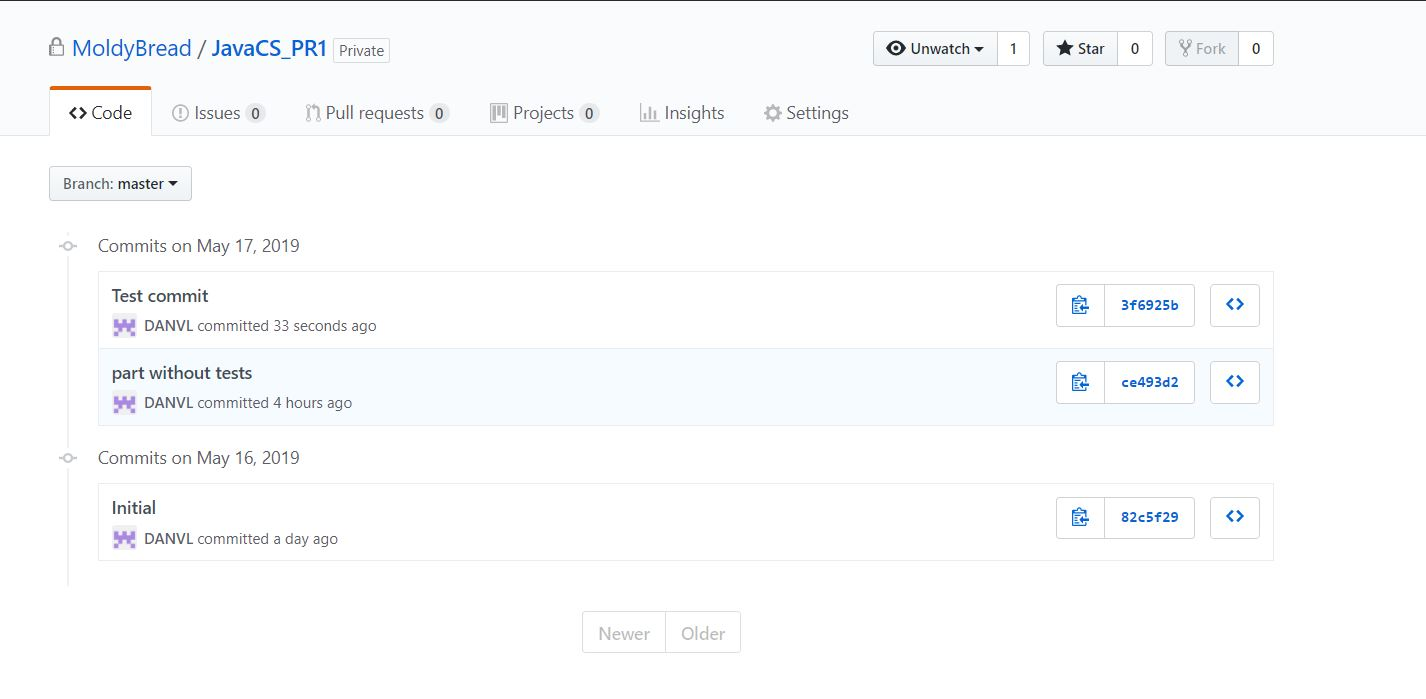
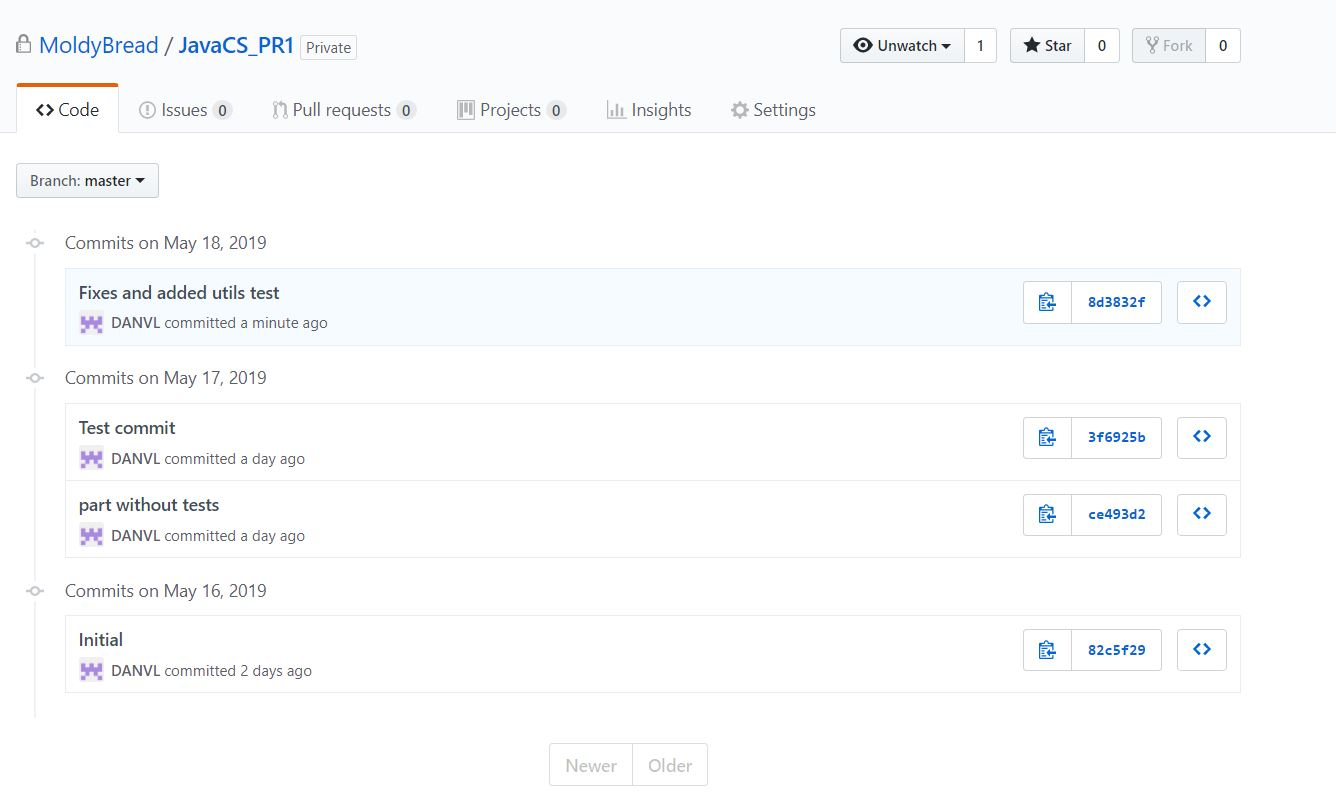
CsPr2

diff --git a/src/main/java/com/company/util/Util.java b/src/main/java/com/company/util/Util.java
@@ -1,12 +1,24 @@
 package com.company.util;
 
 import javax.crypto.Cipher;
+import javax.crypto.NoSuchPaddingException;
 import javax.crypto.spec.SecretKeySpec;
 import java.security.Key;
+import java.security.NoSuchAlgorithmException;
 
 public class Util {
-    private static Key aesKey = new SecretKeySpec("Bar12345Bar12345".getBytes(), "AES");
-    private static Cipher cipher;
+    public static Key aesKey = new SecretKeySpec("Bar12345Bar12345".getBytes(), "AES");
+    public static Cipher cipher;
+
+    static {
+        try {
+            cipher = Cipher.getInstance("AES");
+        } catch (NoSuchAlgorithmException e) {
+            e.printStackTrace();
+        } catch (NoSuchPaddingException e) {
+            e.printStackTrace();
+        }
+    }
 
     public static int crc(byte[] input) {
         int[] table = {
@@ -51,17 +63,6 @@ public class Util {
         }
 
         return crc;
-    }
-
-    public static byte[] encrypt(String message) throws Exception {
-        cipher = Cipher.getInstance("AES");
-        cipher.init(Cipher.ENCRYPT_MODE, aesKey);
-        return cipher.doFinal(message.getBytes());
-    }
-
-    public static String decrypt(byte[] input) throws Exception {
-        cipher.init(Cipher.DECRYPT_MODE, aesKey);
-        return new String(cipher.doFinal(input));
     }
 
 

diff --git a/src/main/java/com/company/entities/Message.java b/src/main/java/com/company/entities/Message.java
@@ -1,6 +1,7 @@
 package com.company.entities;
 
-import com.company.pacakge.PackageManager;
+import com.company.sevices.Encryptor;
+import com.company.sevices.implementation.MessageChecker;
 import com.company.util.Util;
 
 import java.util.Random;
@@ -23,19 +24,18 @@ public class Message {
         currentNumber = ++number;
     }
 
-    public boolean send() throws Exception {
-        byte[] encrypted = Util.encrypt(message);
-        data = new byte[16 + encrypted.length];
+    public byte[] getData() throws Exception {
+        byte[] encrypted =  new Encryptor().encrypt(message);
+        data = new byte[18 + encrypted.length];
         data[0] = 0xD;
         data[1] = 0x1;
         fillPart(currentNumber, 2, 8);
-        fillPart(16 + data.length, 9, 13);
+        fillPart(encrypted.length, 9, 13);
         fillPart(Util.crc(Util.subArray(data, 0, 13)), 14, 15);
         System.arraycopy(encrypted, 0, data, 16, encrypted.length);
         fillPart(Util.crc(encrypted), encrypted.length + 16, data.length - 1);
 
-
-        return new PackageManager(data).checkPackage();
+        return data;
     }
 
 

diff --git a/src/test/java/com/company/entities/MessageTest.java b/src/test/java/com/company/entities/MessageTest.java
@@ -6,9 +6,16 @@ import static org.junit.Assert.assertTrue;
 
 public class MessageTest {
     @Test
-    public void shouldReturnTrue() throws Exception {
+    public void shouldCheckEnglishMessage() throws Exception {
         Message message = new Message("123NoFalsePlease123");
 
-        assertTrue(message.send());
+        assertTrue(true);
+    }
+
+    @Test
+    public void shouldCheckUkrainianMessage() throws Exception {
+        Message message = new Message("123Україна123");
+
+        assertTrue(true);
     }
 }

diff --git a/src/test/java/com/company/util/UtilTest.java b/src/test/java/com/company/util/UtilTest.java
@@ -1,5 +1,7 @@
 package com.company.util;
 
+import com.company.sevices.Decryptor;
+import com.company.sevices.Encryptor;
 import org.junit.Assert;
 import org.junit.Test;
 
@@ -7,7 +9,7 @@ public class UtilTest {
 
     @Test
     public void shouldEncryptAndDecrypt() throws Exception {
-        String actual = Util.decrypt(Util.encrypt("My string"));
+        String actual = new Decryptor().decrypt(new Encryptor().encrypt("My string"));
         String expected = "My string";
 
         Assert.assertEquals(expected, actual);

diff --git a/src/main/java/com/company/sevices/implementation/MessageChecker.java b/src/main/java/com/company/sevices/implementation/MessageChecker.java
@@ -1,12 +1,12 @@
-package com.company.pacakge;
+package com.company.sevices.implementation;
 
 import com.company.util.Util;
 
-public class PackageManager {
+public class MessageChecker {
     private byte[] data;
     private int encLen;
 
-    public PackageManager(byte[] data)  {
+    public MessageChecker(byte[] data)  {
         this.data = data;
         encLen=data.length-16;
 
